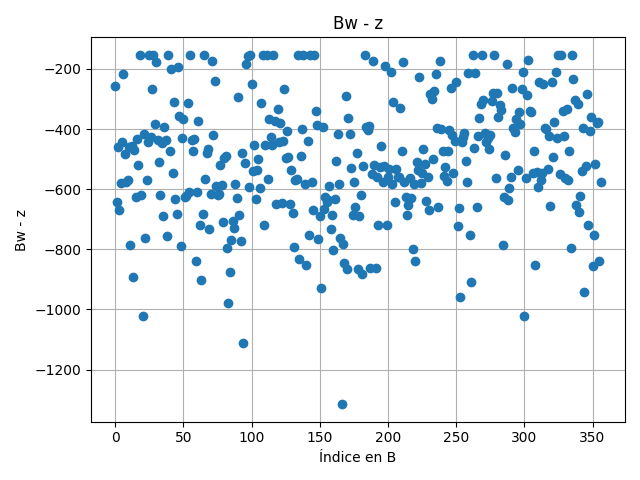
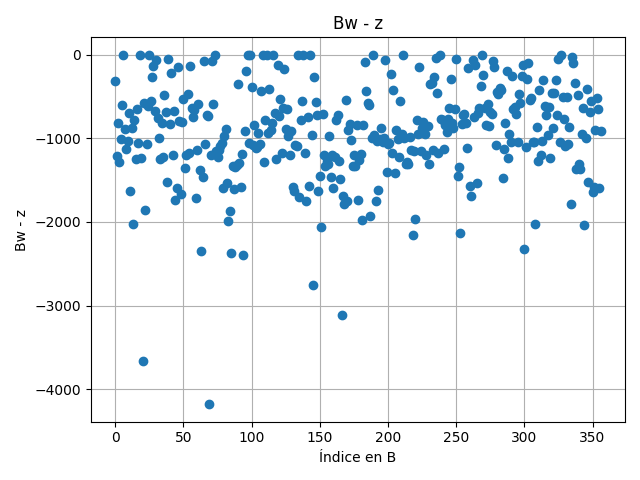
ya jalan los simplex estandares con nuestro desarrollo

diff --git a/lp_separation_simplex.py b/lp_separation_simplex.py
@@ -81,123 +81,130 @@ def split_A_B(Xs: pd.DataFrame, y: pd.Series) -> Tuple[np.ndarray, np.ndarray]:
 
 # ------------------------- PROBLEMA PRIMAL -------------------------
 #
-#   Min (e_A/m)^T @ y + (e_B/p)^T @ z
-#   S.a. Aw + y >= e_A*beta + e_A
-#        Bw - z <= e_B*beta - e_B
-#        y >= 0, z >= 0; w y alfa libres
-# Para linprog usaremos la forma canónica (max y <=):
-#   (-A)w + (e_A)beta + I*y + 0*z <= -e_A
-#   ( B)w + (-e_B)beta + 0*y + (-I)z <= -e_B
+#   Min   (e_A/m)^T @ y + (e_B/p)^T @ z
+#   S.a.  Aw + y >= e_A*beta + e_A
+#         Bw - z <= e_B*beta - e_B
+#         y >= 0, z >= 0; w y alfa libres
+#
+# En forma estándar: Sean beta_pos, beta_neg en R^1; w_pos, w_neg en R^n; r en R^m; s en R^p
+
+#   Min     0*beta_pos + 0*beta_neg + 0^T@w_pos + 0^T@w_neg + (e_A/m)^T@y + (e_B/p)^T@z + 0^T@r + 0^T@s
+#   S.a.  - e_A*beta_pos + e_A*beta_neg + A@w_pos - A@w_neg + I_m@y + 0_mxp@z - I_m@r + 0_mxp@s =  e_A
+#         - e_B*beta_pos + e_B*beta_neg + B@w_pos - B@w_neg + 0_pxm@y - I_p@z + 0_pxm@z + I_p@s = -e_B
+#           beta_pos, beta_neg, w_pos, w_neg, y, z, r, s >= 0
 
 
-def build_primal(A: np.ndarray, B: np.ndarray):
+def construir_primal(A: np.ndarray, B: np.ndarray):
     m, n = A.shape
     p = B.shape[0]
 
-    A_block = np.hstack([-A, np.ones((m, 1)), np.eye(m), np.zeros((m, p))])
-    bA = -np.ones(m)
+    M_A = np.hstack(
+        [
+            -np.ones((m, 1)),
+            np.ones((m, 1)),
+            A,
+            -A,
+            np.eye(m),
+            np.zeros((m, p)),
+            -np.eye(m),
+            np.zeros((m, p)),
+        ]
+    )
+    b_A = np.ones(m)
 
-    B_block = np.hstack([B, -np.ones((p, 1)), np.zeros((p, m)), -np.eye(p)])
-    bB = -np.ones(p)
+    M_B = np.hstack(
+        [
+            -np.ones((p, 1)),
+            np.ones((p, 1)),
+            B,
+            -B,
+            np.zeros((p, m)),
+            -np.eye(p),
+            np.zeros((p, m)),
+            np.eye(p),
+        ]
+    )
+    b_B = -np.ones(p)
 
-    A_ub = np.vstack([A_block, B_block])
-    b_ub = np.concatenate([bA, bB])
+    M = np.vstack([M_A, M_B])
+    b = np.concatenate([b_A, b_B])
 
     # c: sólo y, z aparecen en el objetivo
-    N = n + 1 + m + p
+    N = 1 + 1 + n + n + m + p + m + p
     c = np.zeros(N)
-    c[n + 1 : n + 1 + m] = 1.0 / m
-    c[-p:] = 1.0 / p
+    c[2 * (n + 1) : 2 * (n + 1) + m] = 1.0 / m
+    c[2 * (n + 1) + m : 2 * (n + 1) + m + p] = 1.0 / p
 
     # w y beta libres; y,z >= 0
-    bounds = [(-float("inf"), float("inf"))] * (n + 1) + [(0, float("inf"))] * (m + p)
+    bounds = [(0, float("inf"))] * (N)
     sizes = (m, n, p)
-    return c, A_ub, b_ub, bounds, sizes
+    return c, M, b, bounds, sizes
 
 
-def solve_primal_simplex(c, A_ub, b_ub, bounds):
+# ------------------------- PROBLEMA DUAL -------------------------
+#
+# Variables duales: u en R^m, q en R^p
+#
+#   Max   (e_A)^T @ u + (e_B)^T @ q
+#   S.a   (e_A)^T @ u = (e_B)^T @ q
+#         A^T @ u = B^T @ q
+#         0 ≤ u ≤ (e_A)/m
+#         0 ≤ q ≤ (e_B)/p
+#
+# En forma estándar: Sean f en R^m, g en R^p
+#
+#   Min   - (e_A)^T @ u - (e_B)^T @ q + 0^T @ f + 0^T @ g
+#   S.a.    (e_A)^T @ u - (e_B)^T @ q + 0^T @ f + 0^T @ g = 0
+#               A^T @ u - B^T @ q + 0_nxm @ f + 0_nxp @ g = 0
+#               I_m @ u + 0_mxp @ q + I_m @ f + 0_mxp @ g = e_A/m
+#               0_pxm @ u + I_m @ q + 0_pxm @ f + I_m @ g = e_B/p
+#           u, q, f, g >= 0
+
+
+def construir_dual(A: np.ndarray, B: np.ndarray):
+    m, n = A.shape
+    p = B.shape[0]
+
+    e_A = np.ones((m, 1))
+    e_B = np.ones((p, 1))
+
+    M_1 = np.hstack([e_A.T, -e_B.T, np.zeros((1, m + p))])
+    M_2 = np.hstack([A.T, -B.T, np.zeros((n, m + p))])
+    M_3 = np.hstack([np.eye(m), np.zeros((m, p)), np.eye(m), np.zeros((m, p))])
+    M_4 = np.hstack([np.zeros((p, m)), np.eye(p), np.zeros((p, m)), np.eye(p)])
+
+    M = np.vstack([M_1, M_2, M_3, M_4])
+    b = np.concatenate([np.zeros((1 + n, 1)), e_A / m, e_B / p])
+
+    c = np.concatenate([-e_A, -e_B, np.zeros((m + p, 1))])
+
+    # w y beta libres; y,z >= 0
+    bounds = [(0, float("inf"))] * (2 * (m + p))
+    sizes = (m, n, p)
+    return c, M, b, bounds, sizes
+
+
+def simplex_estandar(c, M, b, bounds, iters=5000):
     """
-    Resuelve el primal con simplex clásico de SciPy.
+    Resuelve un problema lineal estandar con simplex clasico de SciPy.
     Devuelve (x_opt, meta, res) donde 'meta' contiene iteraciones, cpu, etc.
     """
     t0 = time.perf_counter()
     res = linprog(
         c,
-        A_ub=A_ub,
-        b_ub=b_ub,
-        bounds=bounds,
+        None,
+        None,
+        M,
+        b,
+        bounds,
         method="simplex",
-        options={"maxiter": 5000},
+        options={"maxiter": iters},
     )
     t1 = time.perf_counter()
     meta = {
         "success": bool(res.success),
         "status": res.message,
         "obj": float(res.fun) if res.success else np.inf,
-        "iters": getattr(res, "nit", None),
-        "cpu": t1 - t0,
-    }
-    return res.x, meta, res
-
-
-# -------------------- DUAL explícito (forma) --------------------
-# Variables duales: u en R^m, q en R^p
-# Máx  (e_A)^T @ u + (e_B)^T @ q    <=>  Min  1^T λ_A + 1^T λ_B  (cambiando el signo)
-# s.a.
-#   0 ≤ u ≤ (e_A)/m,   0 ≤ q ≤ (e_B)/p
-#    -A^T λ_A +  B^T λ_B ≤ 0     (por w_+)
-#    A^T λ_A -  B^T λ_B ≤ 0     (por w_-)
-#    e_A^T λ_A -  e_B^T λ_B ≤ 0 (por beta_+)
-#   -e_A^T λ_A +  e_B^T λ_B ≤ 0 (por beta_-)
-# Nota: en óptimo, e_A^T λ_A = e_B^T λ_B.
-
-
-def build_dual(A: np.ndarray, B: np.ndarray):
-    m, n = A.shape
-    p = B.shape[0]
-    # Restricciones (≤) sobre [λ_A; λ_B]
-    C1 = np.hstack([-A.T, B.T])  # w^+
-    C2 = np.hstack([A.T, -B.T])  # w^-
-    eA = np.ones((m, 1))
-    eB = np.ones((p, 1))
-    C3 = np.hstack([eA.T, -eB.T])  # beta^+
-    C4 = np.hstack([-eA.T, eB.T])  # beta^-
-    A_ub = np.vstack([C1, C2, C3, C4])
-    b_ub = np.zeros(2 * n + 2)
-
-    # Objetivo de minimización (para usar linprog):
-    # min 1^T λ_A + 1^T λ_B  y luego negamos para reportar la forma "max -sum λ"
-    c = np.concatenate([np.ones(m), np.ones(p)])
-
-    # Bounds: 0 ≤ λ_A ≤ 1/m,  0 ≤ λ_B ≤ 1/p
-    bounds = [(0, 1.0 / m)] * m + [(0, 1.0 / p)] * p
-    return c, A_ub, b_ub, bounds
-
-
-def solve_dual_simplex(A: np.ndarray, B: np.ndarray):
-    """
-    Resuelve el dual explícito con simplex (min versión) y devuelve:
-      - lbd_opt: lambdas óptimas concatenadas [λ_A; λ_B]
-      - meta_dual: dict con éxito, iters, cpu y obj_dual (en forma "max")
-      - res: objeto de SciPy
-    """
-    c, A_ub, b_ub, bounds = build_dual(A, B)
-    t0 = time.perf_counter()
-    res = linprog(
-        c,
-        A_ub=A_ub,
-        b_ub=b_ub,
-        bounds=bounds,
-        method="simplex",
-        options={"maxiter": 5000},
-    )
-    t1 = time.perf_counter()
-    # pasamos de "min sum λ" a "max -sum λ"
-    obj_dual = float(-(res.fun)) if res.success else -np.inf
-    meta = {
-        "success": bool(res.success),
-        "status": res.message,
-        "obj_dual": obj_dual,
         "iters": getattr(res, "nit", None),
         "cpu": t1 - t0,
     }
@@ -260,7 +267,7 @@ def plot_Bw_minus_z(B: np.ndarray, w: np.ndarray, z: np.ndarray, path_png: str) 
 # -------------------- experimento principal (lo que te regresa) --------------------
 
 
-def run_simplex_experiment(outdir: str = "outputs_simplex") -> Dict[str, Any]:
+def calcular_hiperplano(outdir: str = "outputs_simplex") -> Dict[str, Any]:
     """
     Ejecuta TODO con SIMPLEX (primal y dual) y REGRESA un dict con:
       - iteraciones, cpu y objetivo (primal y dual)
@@ -274,55 +281,63 @@ def run_simplex_experiment(outdir: str = "outputs_simplex") -> Dict[str, Any]:
 
     # 1) Datos
     X, y = load_breast_cancer()
-    Xs = standardize(X)
-    A, B = split_A_B(Xs, y)
+    #   Xs = standardize(X)
+    #   A, B = split_A_B(Xs, y)
+    A, B = split_A_B(X, y)
 
     # 2) PRIMAL
-    c, A_ub, b_ub, bounds, sizes = build_primal(A, B)
-    x_opt, meta_p, res_p = solve_primal_simplex(c, A_ub, b_ub, bounds)
+    c_prim, M_prim, b_prim, bounds_prim, sizes_prim = construir_primal(A, B)
+    opt_prim, meta_prim, res_prim = simplex_estandar(
+        c_prim, M_prim, b_prim, bounds_prim
+    )
 
-    # Particiona solución para graficar
-    m, n, p = sizes
-    w = x_opt[:n]
-    beta = x_opt[n]
-    y_slack = x_opt[n + 1 : n + 1 + m]
-    z_slack = x_opt[-p:]
+    # Solución del hiperplano
+    m, n, p = sizes_prim
+    beta = opt_prim[0] - opt_prim[1]
+    w = opt_prim[2 : 2 + n] - opt_prim[2 + n : 2 + 2 * n]
+    y = opt_prim[2 + 2 * n : 2 + 2 * n + m]
+    z = opt_prim[2 + 2 * n + m : 2 + 2 * n + m + p]
 
-    # 3) DUAL (explícito)
-    lam_opt, meta_d, res_d = solve_dual_simplex(A, B)
+    # 3) DUAL
+    c_dual, M_dual, b_dual, bounds_dual, sizes_dual = construir_dual(A, B)
+    opt_dual, meta_dual, res_dual = simplex_estandar(
+        c_dual, M_dual, b_dual, bounds_dual
+    )
+
+    print("Primal: ")
 
     # 4) KKT (usando los lambdas del dual explícito)
-    kkt = kkt_from_primal_dual(c, A_ub, b_ub, x_opt, lam_opt)
+    kkt = kkt_from_primal_dual(c_prim, M_prim, b_prim, opt_prim, opt_dual[0 : m + p])
 
     # 5) Brecha de dualidad
     gap = (
-        abs(meta_p["obj"] - meta_d["obj_dual"])
-        if (meta_p["success"] and meta_d["success"])
+        abs(meta_prim["obj"] - meta_dual["obj"])
+        if (meta_prim["success"] and meta_dual["success"])
         else None
     )
 
     # 6) Gráficas pedidas
     fig1 = os.path.join(outdir, "Aw_plus_y_simplex.png")
     fig2 = os.path.join(outdir, "Bw_minus_z_simplex.png")
-    plot_Aw_plus_y(A, w, y_slack, fig1)
-    plot_Bw_minus_z(B, w, z_slack, fig2)
+    plot_Aw_plus_y(A, w, y, fig1)
+    plot_Bw_minus_z(B, w, z, fig2)
 
     # 7) Empaquetado de resultados
     results = {
         "solver": "simplex",
         "primal": {
-            "success": meta_p["success"],
-            "status": meta_p["status"],
-            "iterations": meta_p["iters"],
-            "cpu_seconds": meta_p["cpu"],
-            "objective": meta_p["obj"],
+            "success": meta_prim["success"],
+            "status": meta_prim["status"],
+            "iterations": meta_prim["iters"],
+            "cpu_seconds": meta_prim["cpu"],
+            "objective": meta_prim["obj"],
         },
         "dual": {
-            "success": meta_d["success"],
-            "status": meta_d["status"],
-            "iterations": meta_d["iters"],
-            "cpu_seconds": meta_d["cpu"],
-            "objective": meta_d["obj_dual"],
+            "success": meta_dual["success"],
+            "status": meta_dual["status"],
+            "iterations": meta_dual["iters"],
+            "cpu_seconds": meta_dual["cpu"],
+            "objective": meta_dual["obj"],
         },
         "duality_gap_abs": gap,
         "KKT": kkt,
@@ -338,7 +353,7 @@ def run_simplex_experiment(outdir: str = "outputs_simplex") -> Dict[str, Any]:
 # -------------------- CLI simple --------------------
 
 if __name__ == "__main__":
-    out = run_simplex_experiment()
+    out = calcular_hiperplano()
     # Impresión breve y clara
     print("\n=== SIMPLEX — Resumen ===")
     print(
